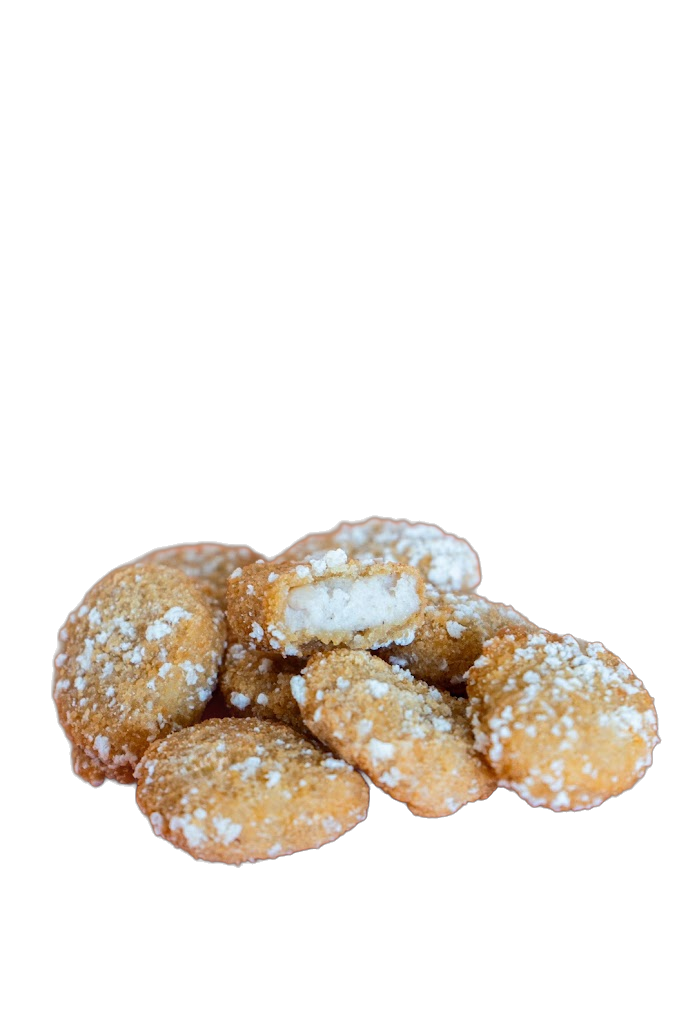
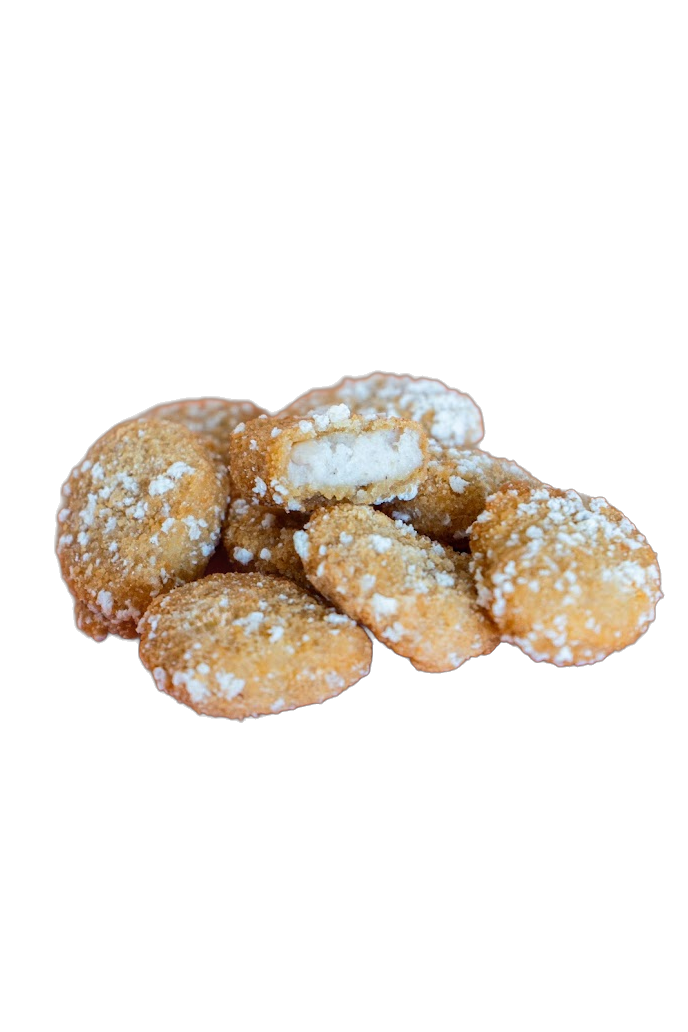
Se agregaron imagenes

diff --git a/index.html b/index.html
@@ -56,22 +56,44 @@
     <div class="contenedor-productos">
 
       <h2 id="titulo-seccion">Combos</h2>
+      
+      <!-- SECCIÓN OFERTAS -->
+<section class="ofertas seccion-carrusel" id="seccion-ofertas">
+
+  <article class="oferta">
+    <img src="./img/oferta.png" alt="Oferta 1">
+    <button class="btn-agregar" onclick="window.agregarAlCarrito({id: 'oferta-1', nombre: 'Nombre de la oferta', precio: 0, img: './img/oferta-1.jpg'})">COMPRAR</button>
+  </article>
+
+    <article class="oferta">
+    <img src="./img/oferta2.png" alt="Oferta 1">
+    <button class="btn-agregar" onclick="window.agregarAlCarrito({id: 'oferta-1', nombre: 'Nombre de la oferta', precio: 0, img: './img/oferta-1.jpg'})">COMPRAR</button>
+  </article>
+
+    <article class="oferta">
+    <img src="./img/oferta3.png" alt="Oferta 1">
+    <button class="btn-agregar" onclick="window.agregarAlCarrito({id: 'oferta-1', nombre: 'Nombre de la oferta', precio: 0, img: './img/oferta-1.jpg'})">COMPRAR</button>
+  </article>
+
+  <!-- más ofertas... -->
+
+</section>
 
       <!-- SECCIÓN COMBOS LIMPIA -->
       <section class="ofertas seccion-carrusel activa" id="seccion-combos">
 
         <article class="oferta">
-          <img src="./img/Combo mila express.jpeg" alt="Combo Mila Express">
+          <img src="./img/Combo Freezer_ Pollo y Milanesa2.png" alt="Combo Freezer">
+          <button class="btn-agregar" onclick="window.agregarAlCarrito({id: 'combo-2', nombre: 'Combo Freezer', precio: 28900, img: './img/Combo Freezer_ Pollo y Milanesa.png'})">COMPRAR</button>
+        </article>
+
+                <article class="oferta">
+          <img src="./img/Combo mila express2.jpg" alt="Combo Mila Express">
           <button class="btn-agregar" onclick="window.agregarAlCarrito({id: 'combo-1', nombre: 'Combo Mila Express', precio: 14500, img: './img/Combo mila express.jpeg'})">COMPRAR</button>
         </article>
 
         <article class="oferta">
-          <img src="./img/Combo Freezer_ Pollo y Milanesa.png" alt="Combo Freezer">
-          <button class="btn-agregar" onclick="window.agregarAlCarrito({id: 'combo-2', nombre: 'Combo Freezer', precio: 28900, img: './img/Combo Freezer_ Pollo y Milanesa.png'})">COMPRAR</button>
-        </article>
-
-        <article class="oferta">
-          <img src="./img/Combo marino de medallones crujientes.png" alt="Combo Marino">
+          <img src="./img/Combo marino de medallones crujientes2.png" alt="Combo Marino">
           <button class="btn-agregar" onclick="window.agregarAlCarrito({id: 'combo-3', nombre: 'Combo Marino', precio: 16900, img: './img/Combo marino de medallones crujientes.png'})">COMPRAR</button>
         </article>
 
